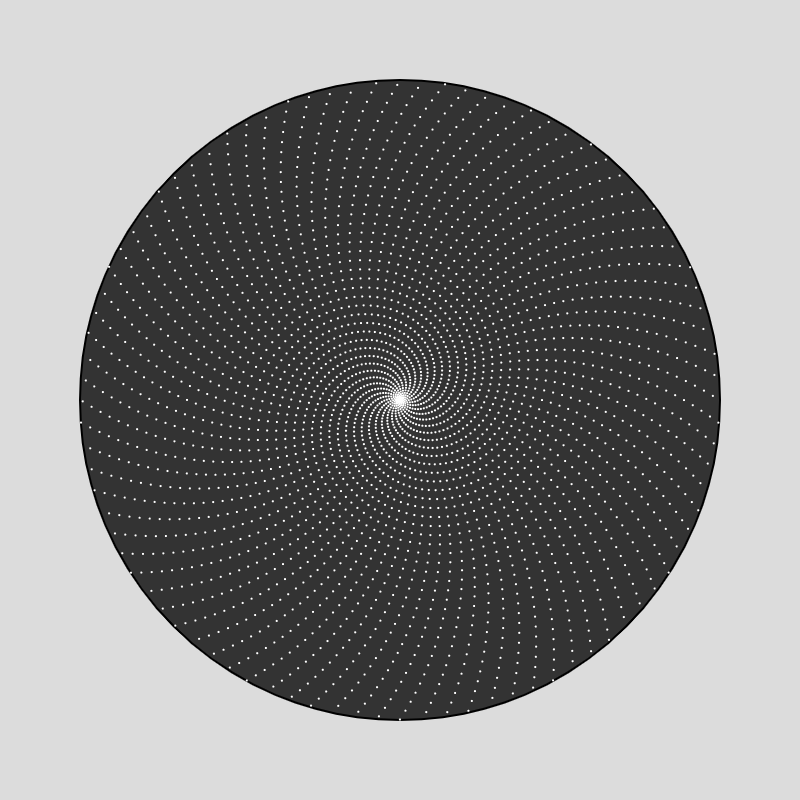
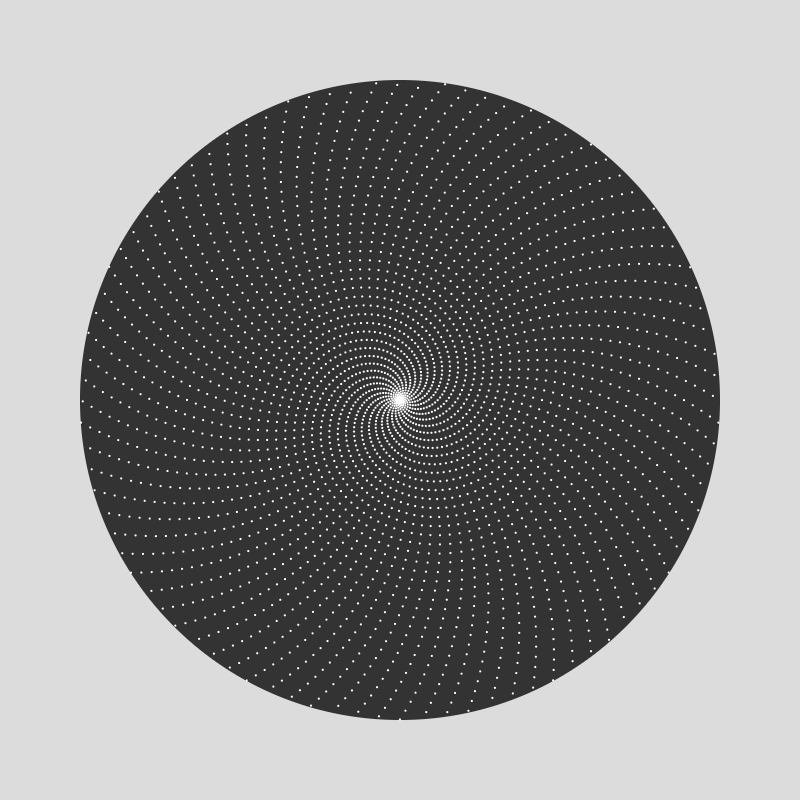
jan02 small adjustments

diff --git a/sketches/JAN02/sketch.js b/sketches/JAN02/sketch.js
@@ -1,3 +1,10 @@
+/*
+Genuary 2023
+JAN.02 "Made in 10 minutes"
+
+By Evgeny Sushko
+https://github.com/evgenysushko
+*/
 "use strict";
 
 let w = 800;
@@ -10,9 +17,10 @@ function setup() {
   pixelDensity(1);
   createCanvas(w, w);
   background(220);
-  strokeWeight(2);
   fill(51);
+  noStroke();
   circle(width / 2, height / 2, rLimit);
+  strokeWeight(2);
 }
 
 function draw() {
@@ -34,7 +42,7 @@ function draw() {
   }
   endShape();
 
-  // if (r >= rLimit / 2) noLoop();
+  if (r >= rLimit / 2) noLoop();
 }
 
 function keyPressed() {
